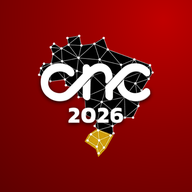
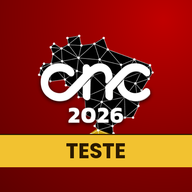
Teste: ícone com tarja amarela TESTE e nome CNC Teste
Claude-Session: https://claude.ai/code/session_01QpbTdYhaPvXSWS9jUnXZKz

Changed region(s): [[0.0, 0.6875, 1.0, 0.875]]

diff --git a/teste/index.html b/teste/index.html
@@ -11,7 +11,7 @@
 <link rel="apple-touch-icon" href="assets/apple-touch-icon.png">
 <meta name="apple-mobile-web-app-capable" content="yes">
 <meta name="mobile-web-app-capable" content="yes">
-<meta name="apple-mobile-web-app-title" content="CNC 2026">
+<meta name="apple-mobile-web-app-title" content="CNC Teste">
 <meta name="apple-mobile-web-app-status-bar-style" content="black-translucent">
 <title>Programação CNC 2026</title>
 <meta name="claude:viewport-fit-sides" content="cover">
@@ -291,7 +291,7 @@ footer{margin-top:36px;padding-block:18px;border-top:1px solid var(--line);font-
 </main>
 
 <script>
-const BUILD_STAMP = '22/10 às 12:22';
+const BUILD_STAMP = '22/10 às 13:39';
 /* PROGRAMAÇÃO — XXVIII CNC 2026
    Formato: [dia, início, fim, sala, código, tipo, título, pessoas, palavras-chave (|), selos]
    tipos: P palestra · R mesa-redonda · O apresentação oral · M minicurso · C reunião de coordenadores

diff --git a/teste/sw.js b/teste/sw.js
@@ -2,7 +2,7 @@
    Estratégia: a página sempre busca primeiro a versão mais nova na internet;
    só usa a cópia salva quando não há conexão (ou a rede demora demais).
    VERSION é trocada a cada publicação (preenchida pelo build). */
-const VERSION = 'f3e41de9b7';
+const VERSION = '8710e20d9e';
 const KILL = false; // true = remove o modo offline dos aparelhos na próxima abertura com internet
 const CACHE = 'cnc2026-' + VERSION;
 const CORE = ['./', './index.html', './manifest.webmanifest',
